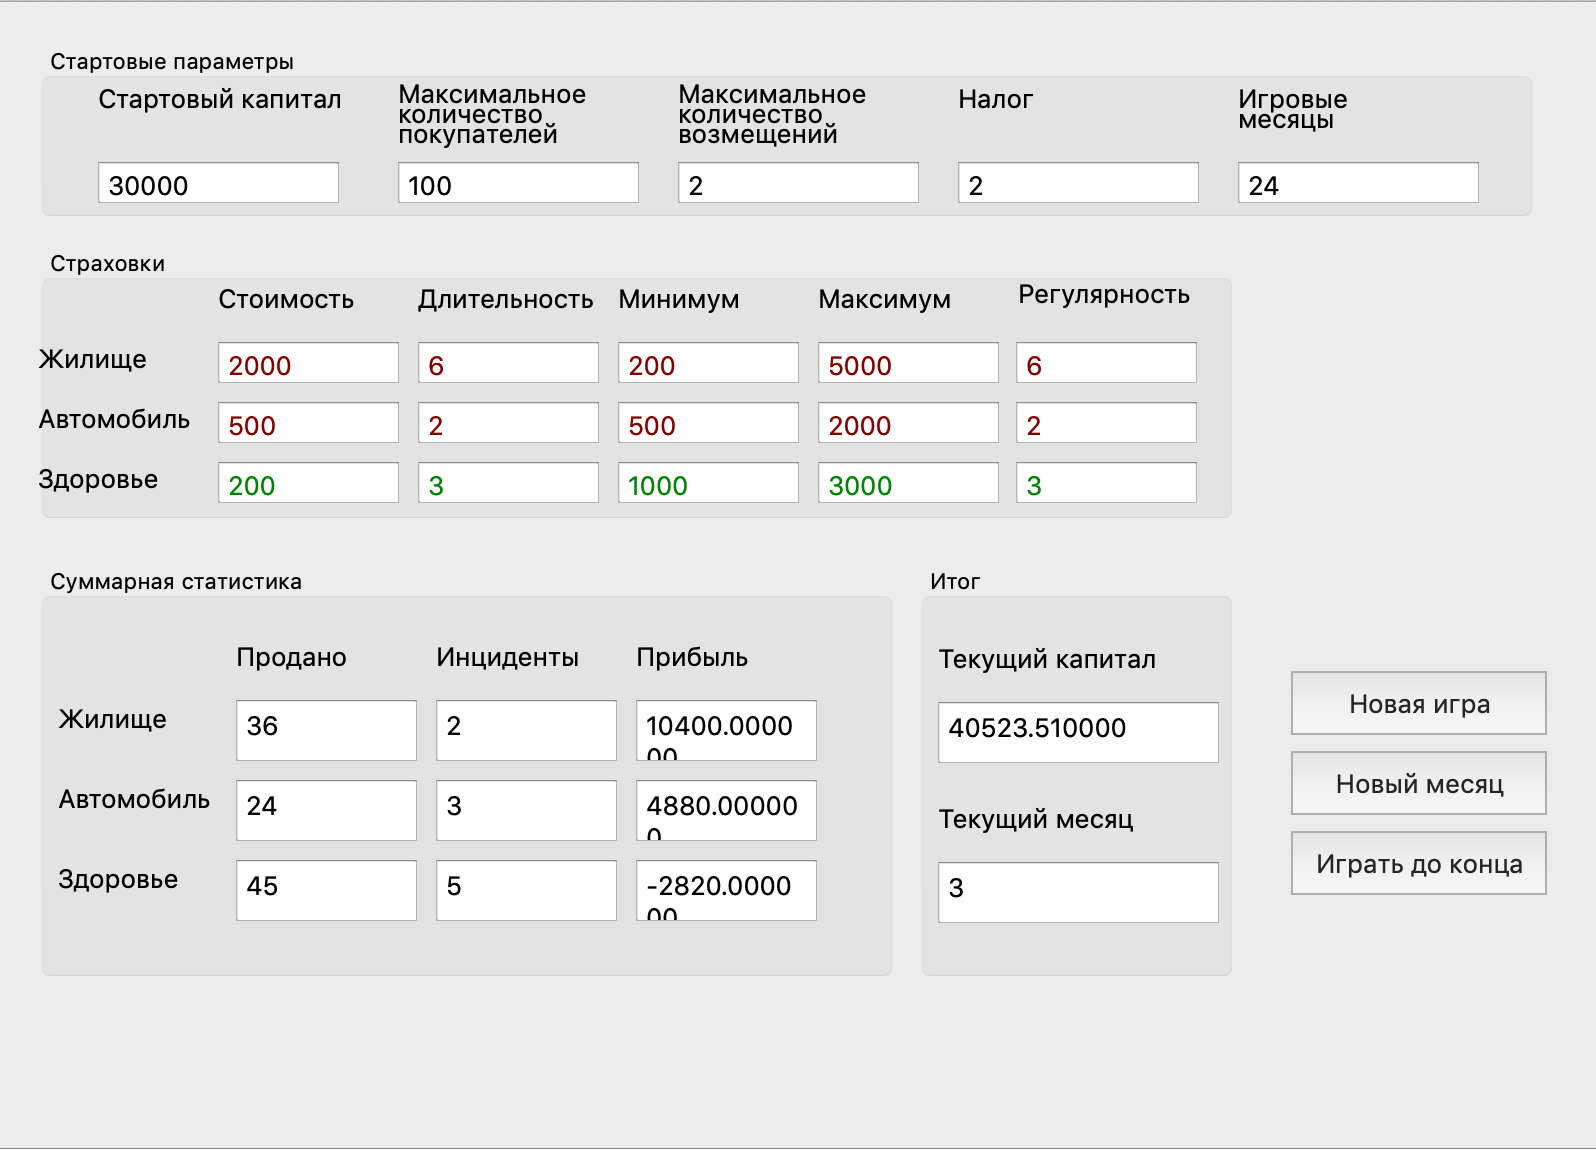
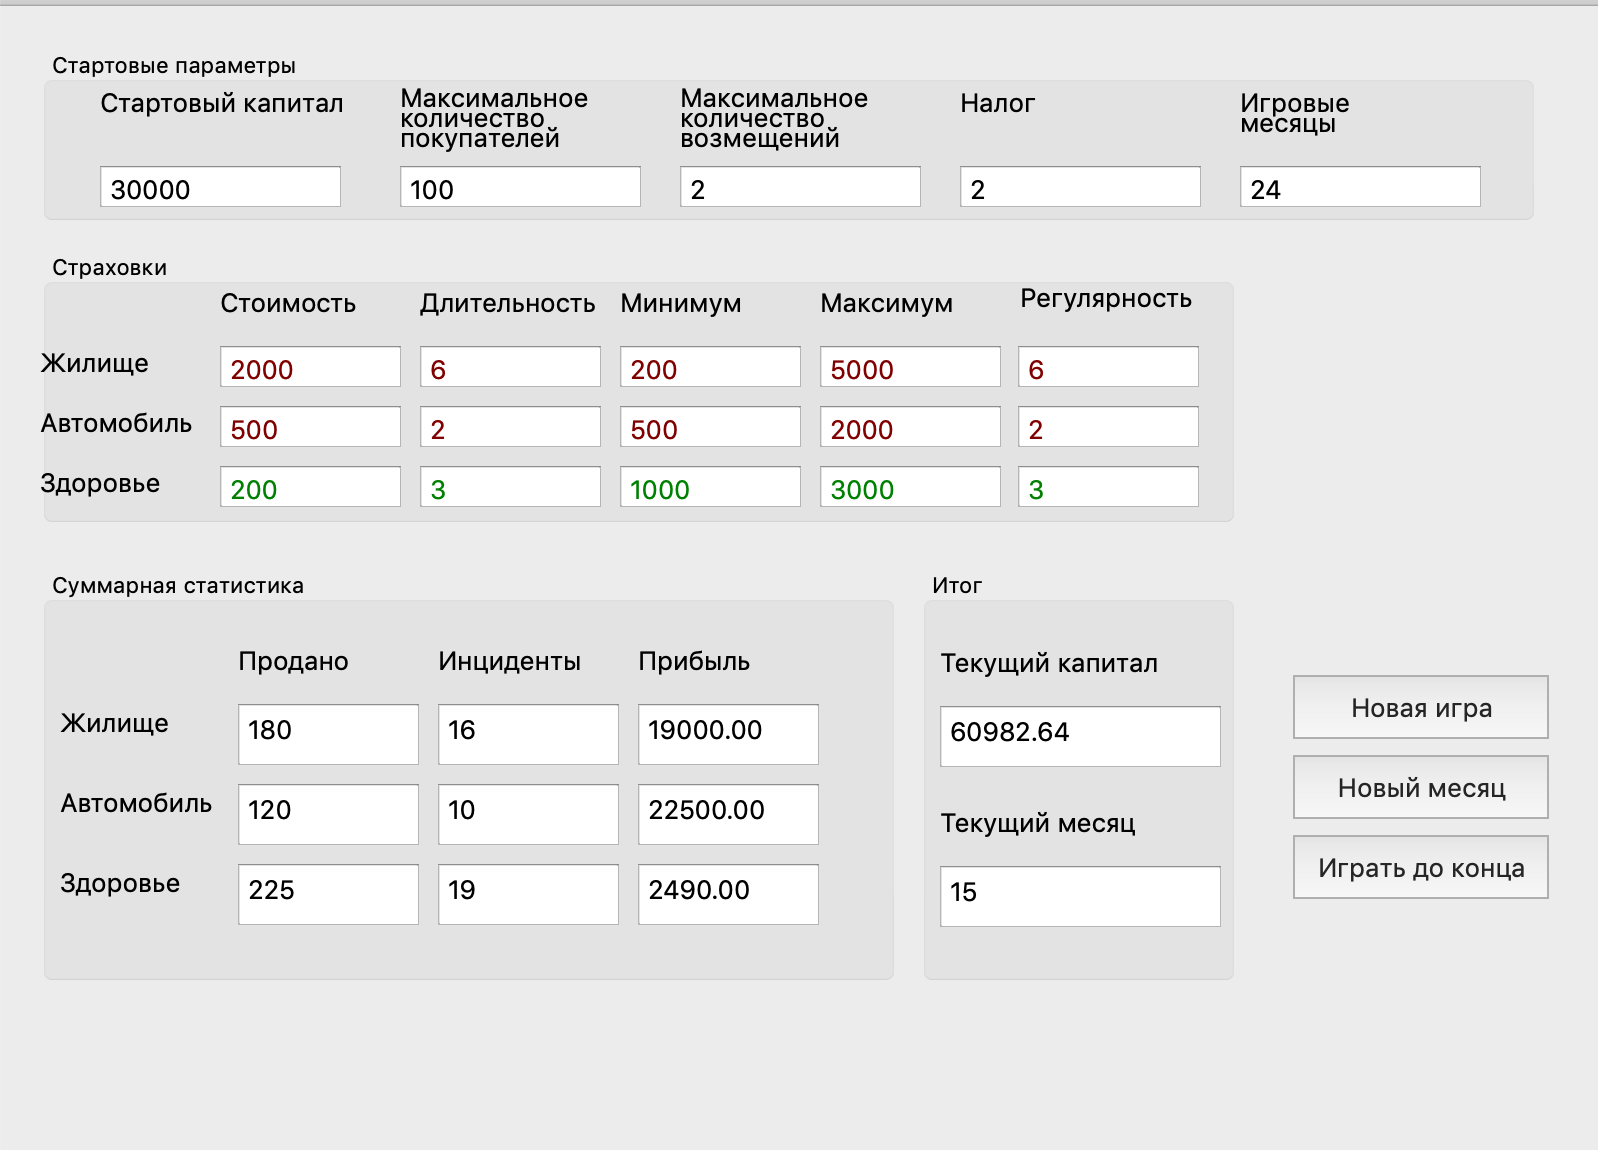
Update ui.

diff --git a/mainwindow.cpp b/mainwindow.cpp
@@ -120,8 +120,7 @@ bool MainWindow::on_play_month_clicked() {
   auto double_to_string = [&](double value) {
     auto str = std::to_string(static_cast<int>(value * 100) / 100.0);
     DEBUG("double_to_string: " << str);
-    str.substr(0, str.size() - 4);
-    return str;
+    return str.substr(0, str.size() - 4);
   };
 
   DEBUG("size: " << game_.GetCompany().GetSoldInsurances().size());
